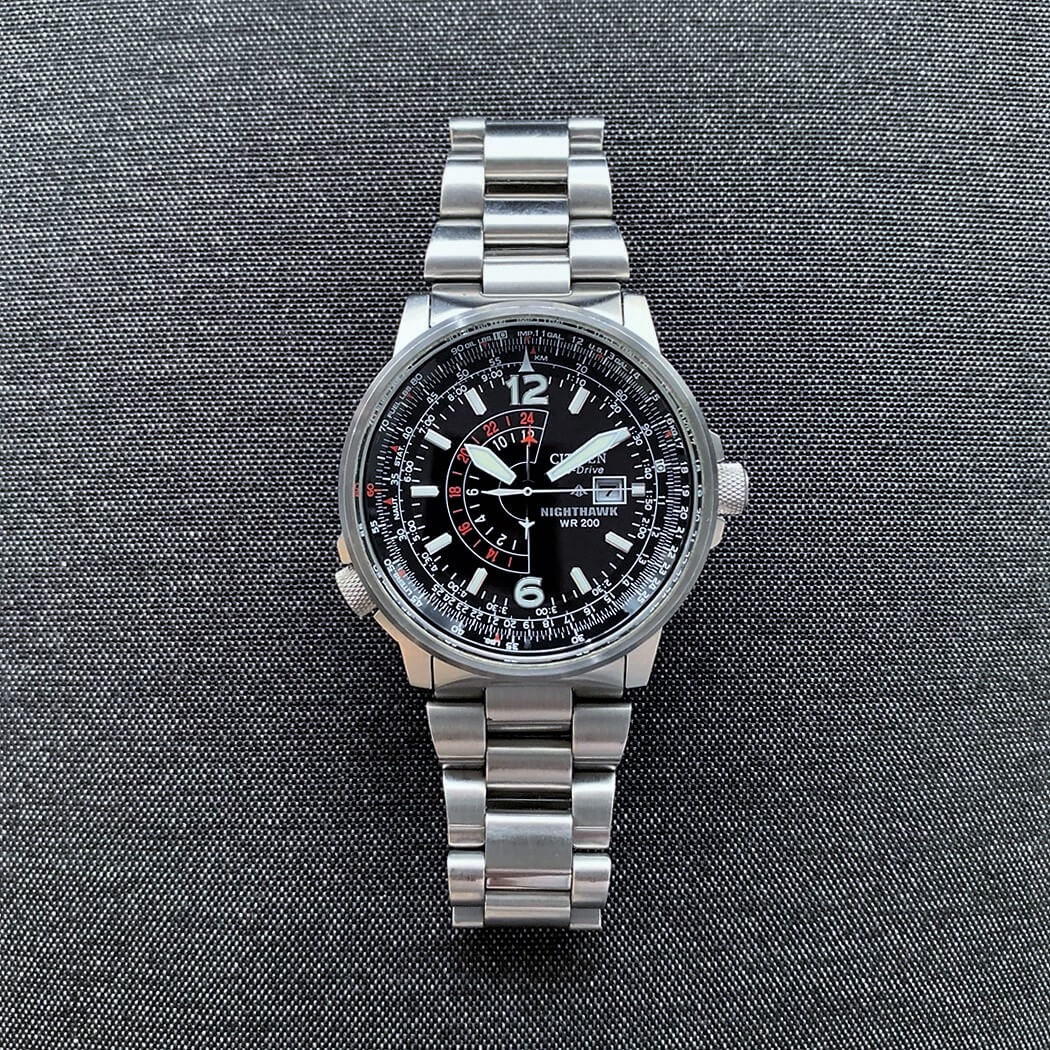
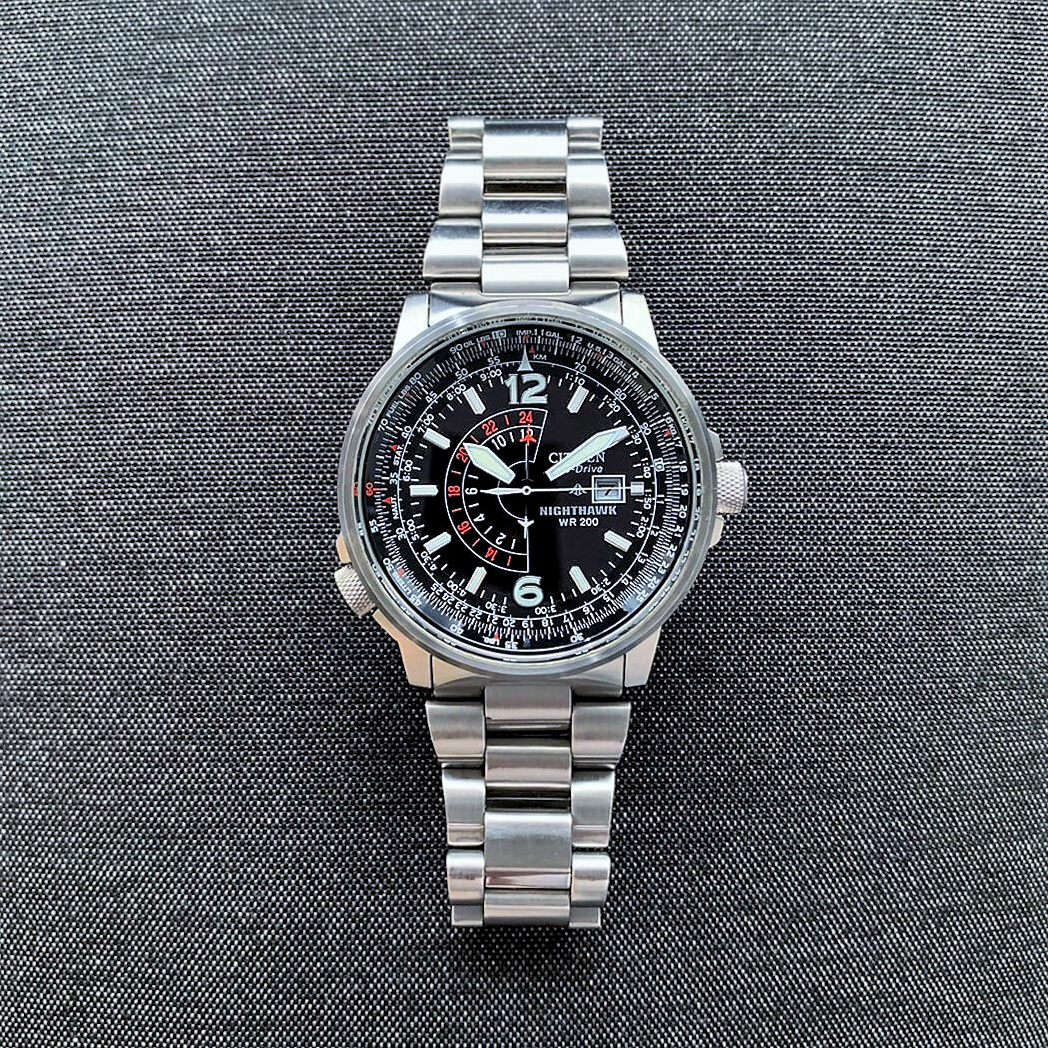
metal try 1204

diff --git a/metal.html b/metal.html
@@ -178,7 +178,7 @@
 
 
 
-	<!-- <section id="zigzag" class="white-bg border-top">
+	<section id="zigzag" class="white-bg border-top">
 	<div class="zigzag container">
 	<div class="zig">
 	<div class="zig-text">
@@ -194,15 +194,15 @@
 	</ul>
 	
 	<br>
-	 <p class="f14">In the photo: Stock bracelet on the Citizen Nighthawk</p> 
+	 <p class="f14">In the photo: Nighthawk bracelet with milled clasp and solid end links.</p> 
 	
 	</div>
-	<div class="zig-image z1"><img src="images/z-metal.jpg"  alt="stainless steel metal bracelet on a watch" /></div>
+	<div class="zig-image z1"><img src="images/metal.jpg"  alt="stainless steel metal bracelet on a watch" /></div>
 	</div>
 	</div>
-	</section> -->
+	</section>
 	
-	<section id="common-types" class="white-bg border-top">
+<!-- 	<section id="common-types" class="white-bg border-top">
 	<div class="common-types-container">
 
 
@@ -219,7 +219,7 @@
 	</ul>
 	
 	</div>
-	</section>
+	</section> -->
 
 	<section id="pricing">
 	<div class="pricing container">

diff --git a/deals.html b/deals.html
@@ -133,7 +133,7 @@
 			<p>Check out our list below to score some major savings on watch straps, bracelets and accessories during the post-holiday season.</p>
 
 			<p>Happy shopping everyone.</p>
-			<p class="f14"><i>Last update: April 9, 2023.</i></p>
+			<p class="f14"><i>Last update: April 12, 2023.</i></p>
 			
 			
 <!-- 			<div class="timeline">
